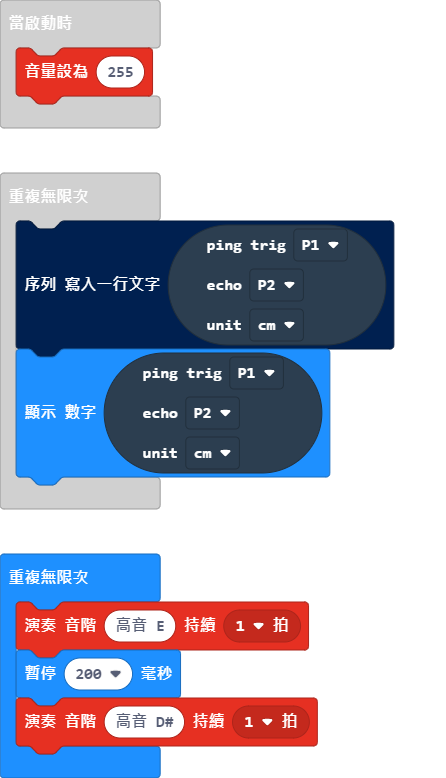
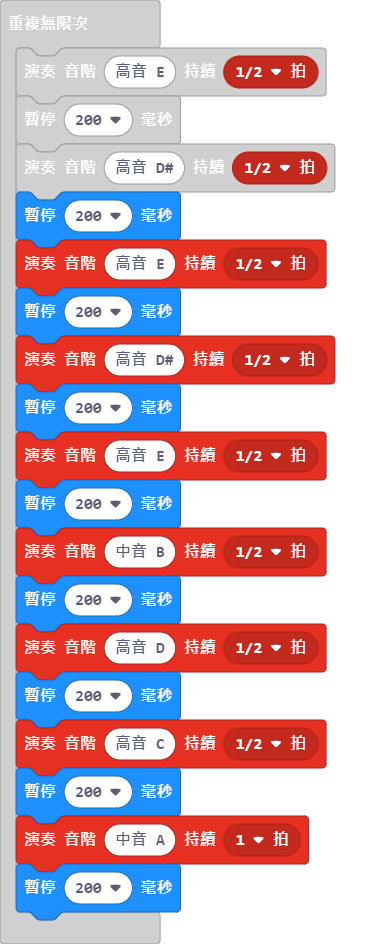
更新 main.blocks, main.ts

diff --git a/main.ts b/main.ts
@@ -12,7 +12,22 @@ basic.forever(function () {
     ))
 })
 basic.forever(function () {
-    music.playTone(659, music.beat(BeatFraction.Whole))
+    music.playTone(659, music.beat(BeatFraction.Half))
     basic.pause(200)
-    music.playTone(622, music.beat(BeatFraction.Whole))
+    music.playTone(622, music.beat(BeatFraction.Half))
+    basic.pause(200)
+    music.playTone(659, music.beat(BeatFraction.Half))
+    basic.pause(200)
+    music.playTone(622, music.beat(BeatFraction.Half))
+    basic.pause(200)
+    music.playTone(659, music.beat(BeatFraction.Half))
+    basic.pause(200)
+    music.playTone(494, music.beat(BeatFraction.Half))
+    basic.pause(200)
+    music.playTone(587, music.beat(BeatFraction.Half))
+    basic.pause(200)
+    music.playTone(523, music.beat(BeatFraction.Half))
+    basic.pause(200)
+    music.playTone(440, music.beat(BeatFraction.Whole))
+    basic.pause(200)
 })
